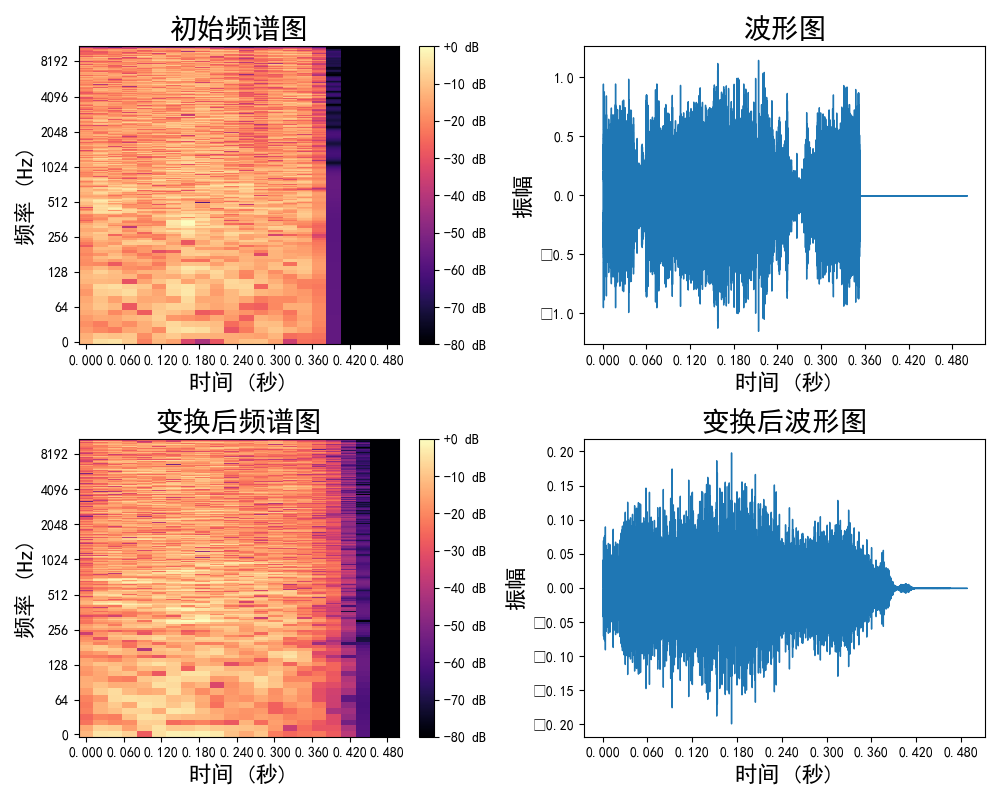
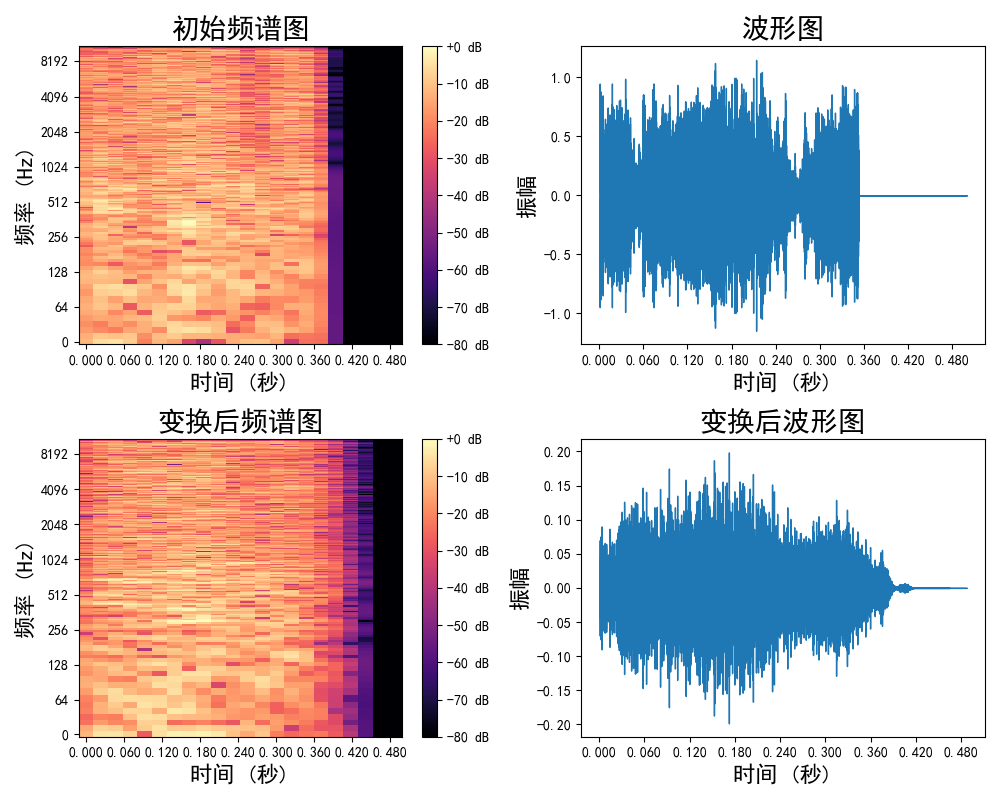
addcode

diff --git a/mfcc.py b/mfcc.py
@@ -1,0 +1,55 @@
+import numpy as np
+import matplotlib.pyplot as plt
+import librosa
+import librosa.display
+plt.rcParams['font.sans-serif'] = ['SimHei']
+plt.rcParams['axes.unicode_minus'] = False
+# 载入音频文件并将其转换为单声道
+audio_file = '375milk_1_1s.wav'
+y, sr = librosa.load(audio_file, mono=True)
+
+# 合并双声道
+if y.ndim > 1:
+    y = np.mean(y, axis=1)
+
+# 绘制初始频谱图和波形图
+plt.figure(figsize=(10, 8))
+
+
+plt.subplot(2, 2, 1)
+D = np.abs(librosa.stft(y))
+S_db = librosa.amplitude_to_db(D, ref=np.max)
+librosa.display.specshow(S_db, x_axis='time', y_axis='log', sr=sr, cmap='cool')
+plt.title('音频频谱图', fontsize=24)
+plt.xlabel('时间 (秒)', fontsize=18)
+plt.ylabel('频率 (Hz)', fontsize=18)
+plt.colorbar(format='%+2.0f dB')
+
+plt.subplot(2, 2, 2)
+librosa.display.waveshow(y, sr=sr)
+plt.title('音频波形图', fontsize=24)
+plt.xlabel('时间 (秒)', fontsize=18)
+plt.ylabel('振幅', fontsize=18)
+
+
+# 计算MFCC变换
+n_mfcc = 13
+mfccs = librosa.feature.mfcc(y=y, sr=sr, n_mfcc=n_mfcc)
+
+# 绘制MFCC变换后的频谱图和波形图
+plt.subplot(2, 2, 3)
+librosa.display.specshow(mfccs, x_axis='time', cmap='cool', sr=sr)
+plt.title('MFCC变换后频谱图', fontsize=24)
+plt.xlabel('时间 (秒)', fontsize=18)
+plt.ylabel('MFCC系数', fontsize=18)
+plt.colorbar()
+
+plt.subplot(2, 2, 4)
+librosa.display.waveshow(librosa.istft(mfccs), sr=sr)
+plt.title('MFCC变换后波形图', fontsize=24)
+plt.xlabel('时间 (秒)', fontsize=18)
+plt.ylabel('振幅', fontsize=18)
+
+plt.tight_layout()
+plt.savefig('mfcc.png')
+plt.show()

diff --git a/xiaobo.py b/xiaobo.py
@@ -1,0 +1,40 @@
+import pywt
+import numpy as np
+import matplotlib.pyplot as plt
+from scipy.io import wavfile
+plt.rcParams['font.sans-serif'] = ['SimHei']
+plt.rcParams['axes.unicode_minus'] = False
+# 读取音频文件
+rate, data = wavfile.read('375milk_1_1s.wav')
+
+# 合并双声道
+if len(data.shape) > 1:
+    data = np.mean(data, axis=1)
+
+# 小波变换
+wavelet = pywt.Wavelet('sym4')
+coeffs = pywt.wavedec(data, wavelet)
+
+# 绘制初始频谱图
+plt.subplot(2, 2, 1)
+plt.specgram(data, Fs=rate)
+plt.title('初始频谱图', fontsize=16)
+
+# 绘制波形图
+plt.subplot(2, 2, 2)
+plt.plot(data)
+plt.title('初始波形图', fontsize=16)
+
+# 绘制小波变换后的频谱图
+plt.subplot(2, 2, 3)
+plt.specgram(pywt.waverec(coeffs, wavelet), Fs=rate)
+plt.title('小波变换后的频谱图', fontsize=16)
+
+# 绘制小波变换后的波形图
+plt.subplot(2, 2, 4)
+plt.plot(pywt.waverec(coeffs, wavelet))
+plt.title('小波变换后的波形图', fontsize=16)
+plt.tight_layout()
+plt.savefig('xiaobo.png')
+# 显示图形
+plt.show()

diff --git a/stft.py b/stft.py
@@ -3,6 +3,7 @@ import matplotlib.pyplot as plt
 import librosa.display
 
 plt.rcParams['font.sans-serif'] = ['SimHei']
+plt.rcParams['axes.unicode_minus'] = False
 # 载入双声道音频文件
 audio_file = '375milk_1_1s.wav'
 y, sr = librosa.load(audio_file, mono=False)
@@ -66,4 +67,5 @@ plt.xlabel('时间 (秒)', fontsize=16)
 plt.ylabel('振幅', fontsize=16)
 
 plt.tight_layout()
+plt.savefig('stft.png')
 plt.show()
